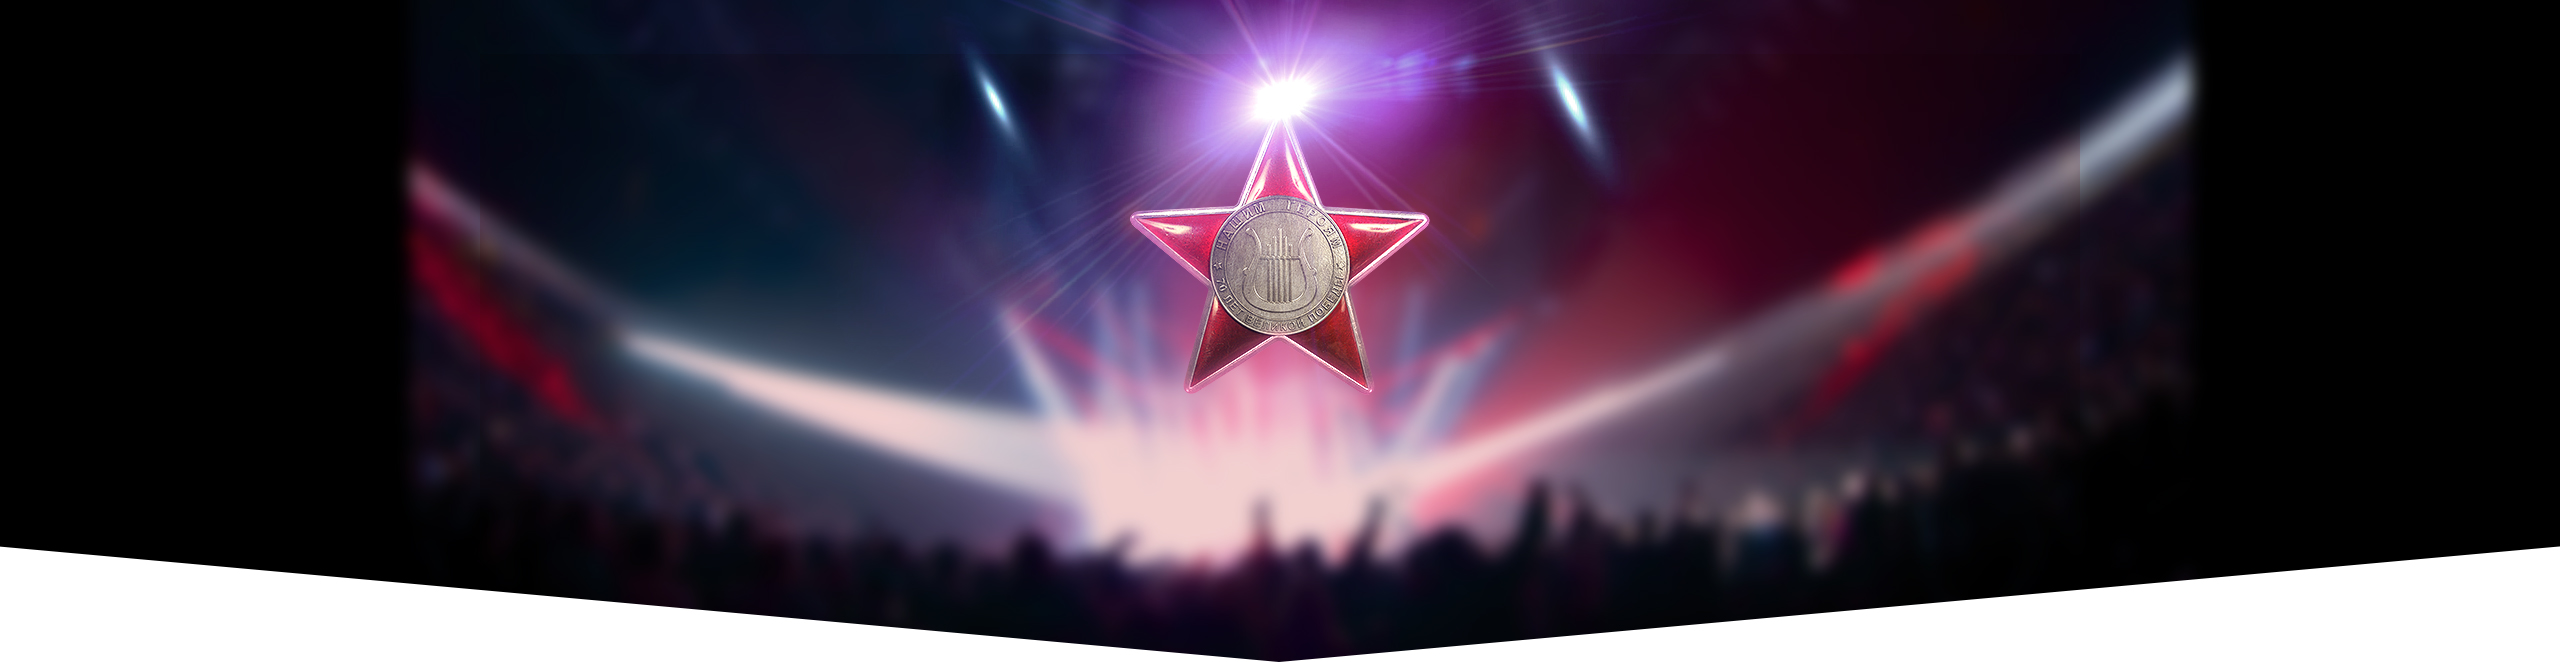
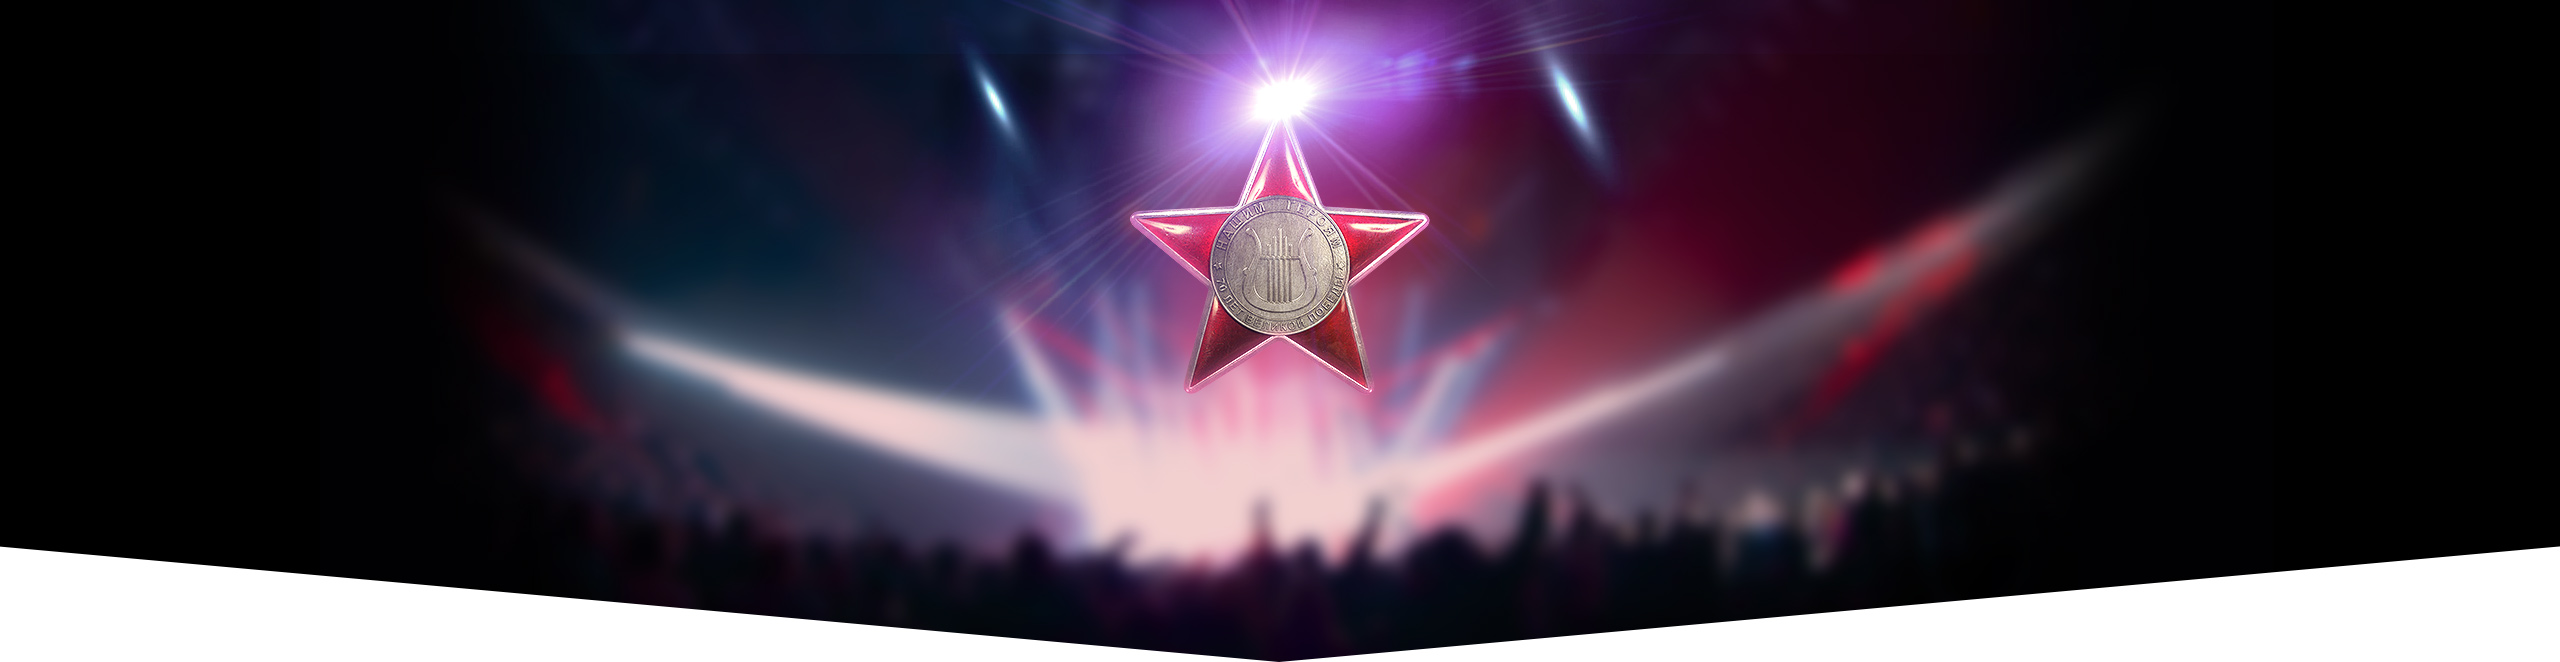
update 1103 (2)

diff --git a/css/styles.css b/css/styles.css
@@ -43,7 +43,7 @@ nav ul li.active a {color:#fff}
 .wrapper {min-width:1000px; width:100%; position:relative; min-height:100%; overflow:hidden}
 .wrapper-inner {padding:0 0 522px 0}
 
-.top {height:252px; position:relative; background:url(../images/top-bg.jpg) center top}
+.top {height:252px; position:relative; background:#000 url(../images/top-bg.jpg) center bottom}
 .top-inner {position:absolute; left:50%; bottom:-39px; width:262px; height:61px; margin-left:-131px; background:url(../images/top-inner.png); color:#fff; font-weight:normal; font-family:ProximaNovaRegular, sans-serif; text-transform:uppercase; text-align:center}
 .top-title {font-size:31px; line-height:41px; text-shadow:0 -1px 0 rgba(100, 5, 2, .75)}
 .top-text {font-size:8px; line-height:20px}

diff --git a/js/tools.js b/js/tools.js
@@ -62,7 +62,7 @@
         var curHeight = $(window).height() / 2;
         $('nav a').each(function() {
             var curBlock = $(this).attr('href');
-            if ($(curBlock).offset().top < (curScroll + curHeight)) {
+            if ($(curBlock).length > 0 && $(curBlock).offset().top < (curScroll + curHeight)) {
                 $('nav li.active').removeClass('active');
                 $(this).parent().addClass('active');
             }
